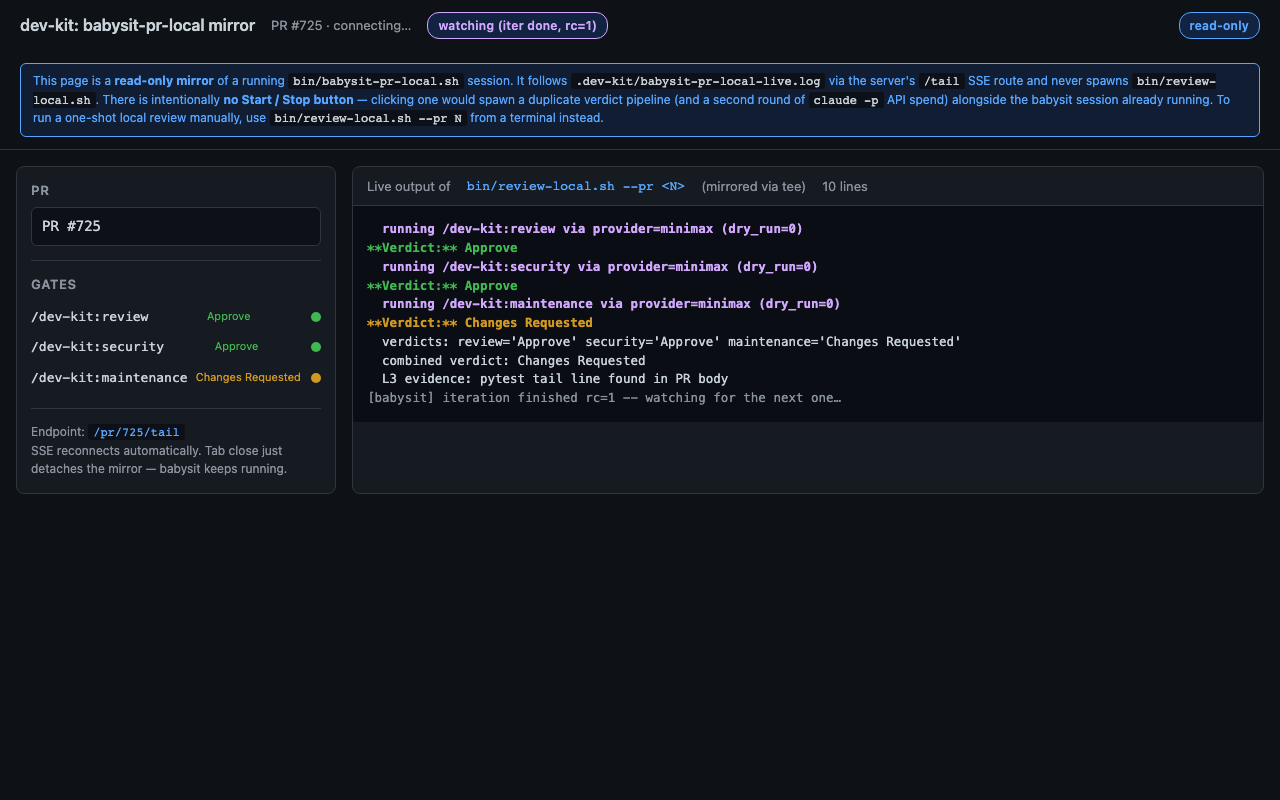
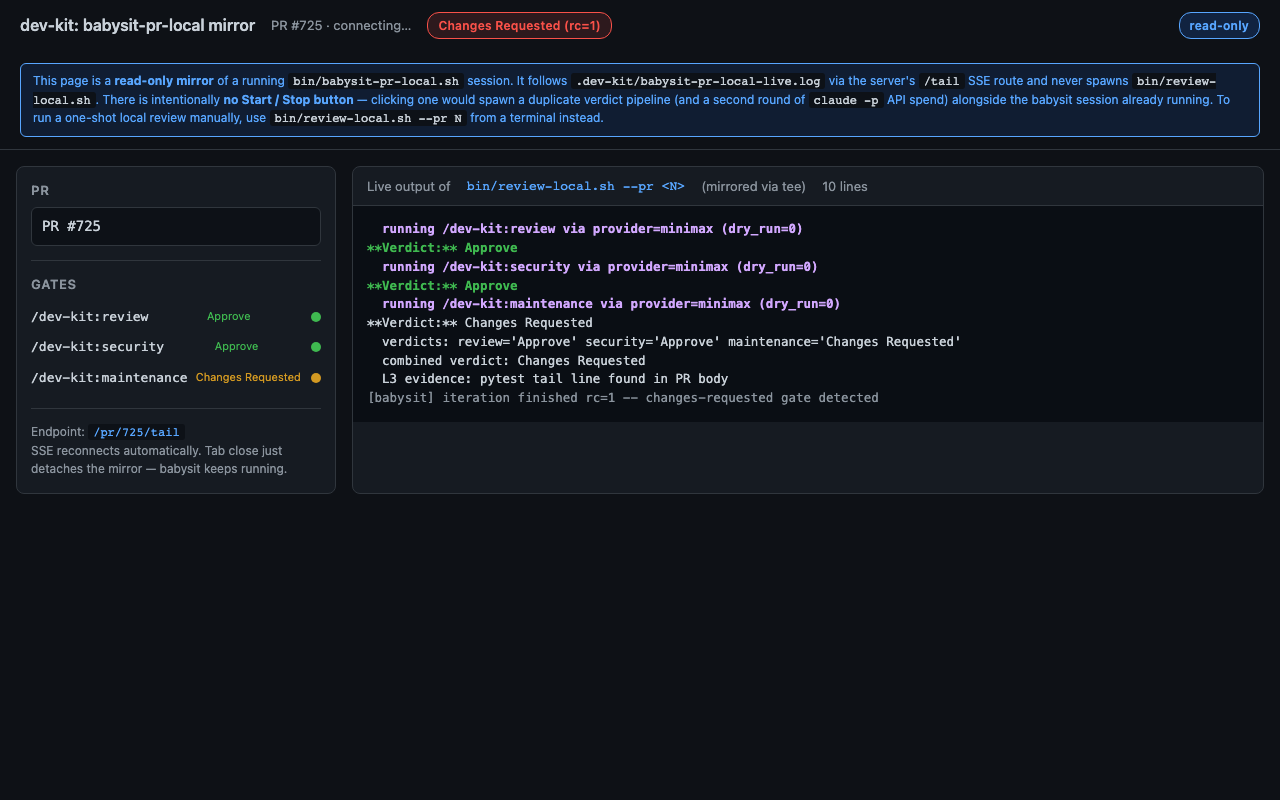
review-local-preview viewer: normalize verdict case before state lookup
Regression caught by the /dev-kit:security review on the previous push:
judgeVerdictRe uses `/i` (case-insensitive) but the downstream
`_verdictToState()` was strict-equality. A judge emitting
`**Verdict:** approve` (lowercase) previously fell through to the
`failed` (red-dot) default and silently flipped a clean gate to red.

Fix: title-case the verdict (`.charAt(0).toUpperCase() + slice(1).toLowerCase()`)
BEFORE the cssClass branch and the `_verdictToState` dispatch, so any
case variation lands on the correct state. The cssClass branch still
matches on the normalized value, so the verdict-line CSS coloring
stays consistent with the gate-dot transition.

Coverage:
- New `test_lowercase_verdict_does_not_flip_gate_to_failed` regression:
  spawns a sister server against a pre-populated lowercase-variant
  log, asserts each gate row reaches `approved` (NOT `failed`). Was
  failing before this commit; passes now.

Iron Law L3 evidence:
  python3 -m pytest tests/test_review_local_server.py tests/test_review_local_preview_gate_state.py -q
  => 13 passed in 12.67s (exit 0)

Refs the /dev-kit:security F3 finding from the previous push's review.

diff --git a/tools/review-local-preview.html b/tools/review-local-preview.html
@@ -269,7 +269,12 @@
       // state. Without this transition the dot column would stay
       // stuck on "running" forever, even though the right pane shows
       // the verdict clearly (the bug this fixes).
-      var verdict = m[1];
+      // Normalize to title case so a judge emitting "approve" (any
+      // case) still hits _verdictToState's strict-equality branches
+      // -- otherwise it falls through to the `failed` (red-dot)
+      // default and silently flips a clean gate to red.
+      var rawVerdict = m[1];
+      var verdict = rawVerdict.charAt(0).toUpperCase() + rawVerdict.slice(1).toLowerCase();
       var cssClass;
       if (verdict === "Approve") cssClass = "verdict-approve";
       else if (verdict === "Changes Requested") cssClass = "verdict-changes";

diff --git a/tests/test_review_local_preview_gate_state.py b/tests/test_review_local_preview_gate_state.py
@@ -217,6 +217,108 @@ class TestHtmlViewerGateStateTransitions(unittest.TestCase):
                     f"got class={classes.get(gate, '<missing>')!r}",
                 )
 
+    def test_lowercase_verdict_does_not_flip_gate_to_failed(self) -> None:
+        """Regression: judgeVerdictRe uses `/i` (case-insensitive) but the
+        downstream `===` checks were strict. A judge emitting
+        `**Verdict:** approve` (lowercase) previously fell through to
+        _verdictToState's `failed` default and flipped a clean gate to
+        the red `failed` class. The fix normalizes verdict case before
+        `_verdictToState` so any case-variation lands on the correct
+        state.
+        """
+        # Spawn a separate server with a lowercase-verdict log so we
+        # don't disturb the class-level server. The server is
+        # read-only, so we just point it at a different log file.
+        import shutil as _shutil
+
+        from playwright.sync_api import sync_playwright
+
+        # Write a lowercase-variant log to a fresh tmpdir + boot a
+        # sister server against it.
+        with tempfile.TemporaryDirectory() as tmp:
+            fake_root = Path(tmp) / "repo"
+            fake_root.mkdir()
+            (fake_root / "bin").mkdir()
+            (fake_root / "tools").symlink_to(PROJECT_ROOT / "tools")
+            (fake_root / "bin" / "review-local.sh").write_text(
+                "#!/usr/bin/env bash\nexit 0\n", encoding="utf-8"
+            )
+            (fake_root / "bin" / "review-local.sh").chmod(
+                (fake_root / "bin" / "review-local.sh").stat().st_mode | stat.S_IXUSR
+            )
+            _shutil.copy(SERVER, fake_root / "bin" / "review-local-server.py")
+            (fake_root / ".dev-kit").mkdir()
+            (fake_root / ".dev-kit" / "babysit-pr-local-live.log").write_text(
+                "  running /dev-kit:review via provider=minimax (dry_run=0)\n"
+                "**Verdict:** approve\n"  # lowercase
+                "  running /dev-kit:security via provider=minimax (dry_run=0)\n"
+                "**Verdict:** approve\n"
+                "  running /dev-kit:maintenance via provider=minimax (dry_run=0)\n"
+                "**Verdict:** approve\n"
+                "##BABYSIT-DONE exit_code=0##\n",
+                encoding="utf-8",
+            )
+            port = _free_port()
+            proc = subprocess.Popen(
+                [sys.executable, str(fake_root / "bin" / "review-local-server.py"),
+                 "--port", str(port), "--bind", "127.0.0.1"],
+                cwd=str(fake_root),
+                stdout=subprocess.PIPE,
+                stderr=subprocess.STDOUT,
+            )
+            try:
+                _wait_for_server("127.0.0.1", port, timeout=5)
+                with sync_playwright() as p:
+                    browser = p.chromium.launch(headless=True)
+                    try:
+                        ctx = browser.new_context(viewport={"width": 1280, "height": 800})
+                        page = ctx.new_page()
+                        page.goto(
+                            f"http://127.0.0.1:{port}/pr/999?autostart=1",
+                            wait_until="domcontentloaded", timeout=10_000,
+                        )
+                        # Wait for the SSE `done` event (signals iteration
+                        # finished). On lowercase-verdict runs the
+                        # `combined verdict:` line isn't emitted, so
+                        # `iteration_done` is the only terminal frame.
+                        page.wait_for_function(
+                            "() => document.getElementById('status').textContent.includes('iter done') "
+                            "|| document.getElementById('status').textContent.includes('Approve') "
+                            "|| document.getElementById('status').textContent.includes('Changes Requested')",
+                            timeout=15_000,
+                        )
+                        page.wait_for_timeout(150)
+                        classes = page.evaluate("""() => {
+                            const out = {};
+                            document.querySelectorAll('[data-gate]').forEach(el => {
+                                out[el.getAttribute('data-gate')] = el.className;
+                            });
+                            return out;
+                        }""")
+                    finally:
+                        browser.close()
+            finally:
+                proc.terminate()
+                try:
+                    proc.wait(timeout=2)
+                except subprocess.TimeoutExpired:
+                    proc.kill()
+
+        for gate in ("review", "security", "maintenance"):
+            with self.subTest(gate=gate):
+                self.assertIn(
+                    "approved", classes.get(gate, ""),
+                    f"lowercase `**Verdict:** approve` should still resolve "
+                    f"to gate {gate!r} `approved` (not `failed`); "
+                    f"got class={classes.get(gate, '<missing>')!r}. all={classes!r}",
+                )
+                self.assertNotIn(
+                    "failed", classes.get(gate, ""),
+                    f"lowercase verdict must NOT fall through to the "
+                    f"`failed` (red-dot) default; gate={gate!r} class="
+                    f"{classes.get(gate, '<missing>')!r}",
+                )
+
 
 if __name__ == "__main__":
     unittest.main()
